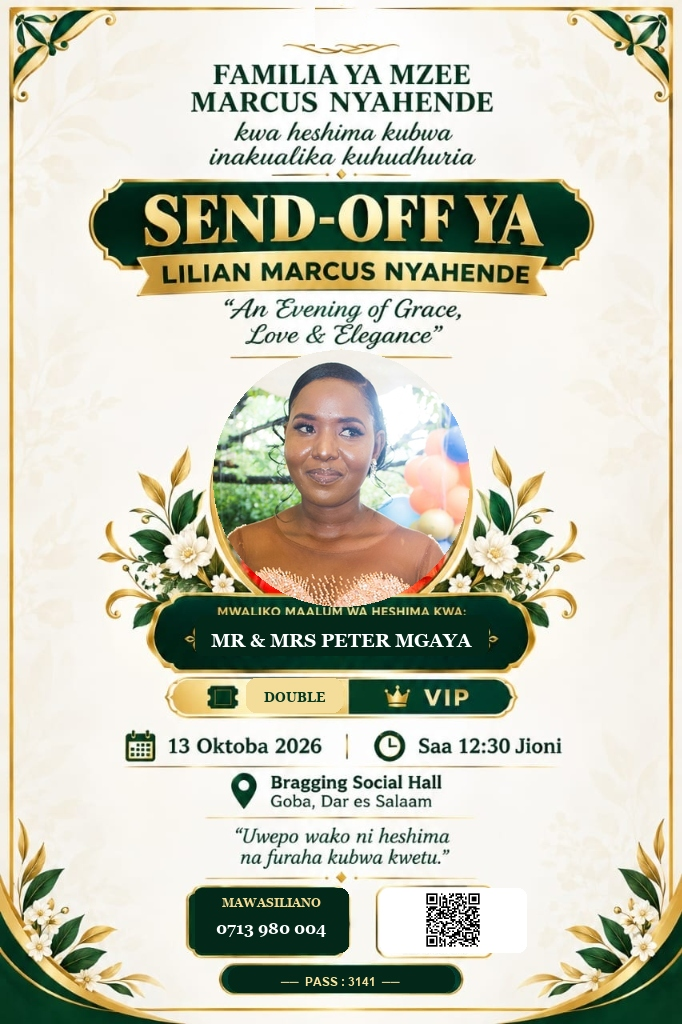
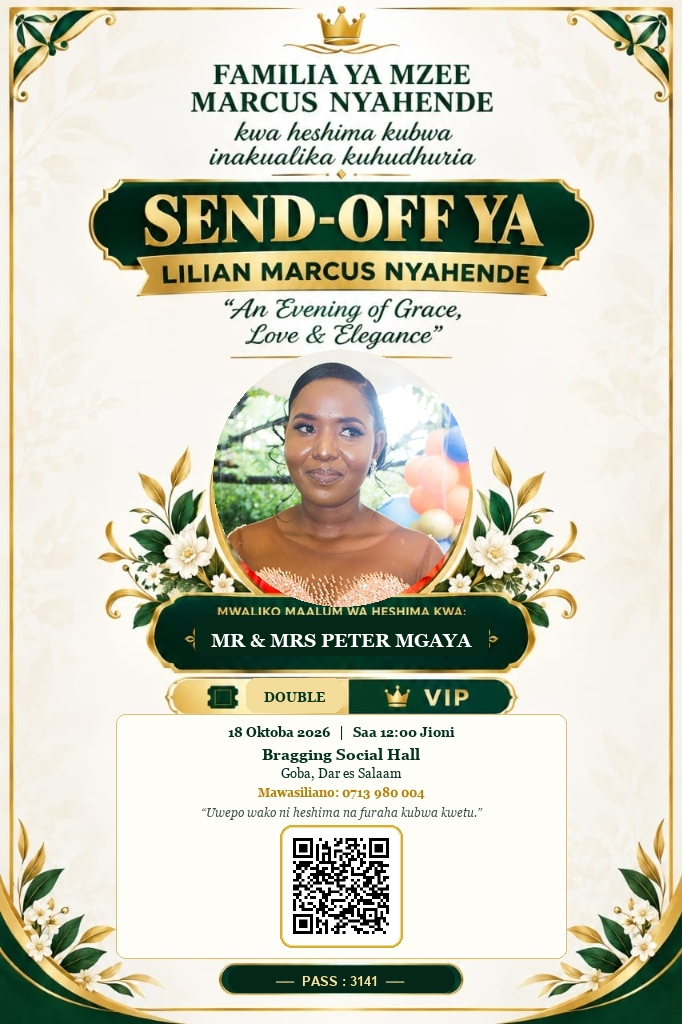
feat: implement Option A with large centered scannable QR code and clean layout

Changed region(s): [[0.1848, 0.6875, 0.8314, 0.9688], [0.4619, 0.0, 0.5543, 0.0625]]

diff --git a/services/build_master_template.py b/services/build_master_template.py
@@ -6,21 +6,47 @@ BASE_DIR = os.path.dirname(os.path.dirname(os.path.abspath(__file__)))
 ORIG_PATH = 'C:/Users/mary/.gemini/antigravity-ide/brain/da022a77-ec18-4588-8e0e-07df093a8af5/.user_uploaded/media_1790793422463.jpg'
 LILIAN_PORTRAIT = os.path.join(BASE_DIR, 'public', 'images', 'lilian_portrait_no_mic.jpg')
 TEMPLATE_OUTPUT = os.path.join(BASE_DIR, 'public', 'images', 'card_template_dynamic.png')
+FONTS_DIR = os.path.join(BASE_DIR, 'public', 'fonts')
+
+def get_font(font_filename, size):
+    local_path = os.path.join(FONTS_DIR, font_filename)
+    if os.path.exists(local_path):
+        try:
+            return ImageFont.truetype(local_path, int(size))
+        except Exception:
+            pass
+
+    win_path = os.path.join(r'C:\Windows\Fonts', font_filename)
+    if os.path.exists(win_path):
+        try:
+            return ImageFont.truetype(win_path, int(size))
+        except Exception:
+            pass
+
+    for lp in [
+        '/usr/share/fonts/truetype/dejavu/DejaVuSans-Bold.ttf',
+        '/usr/share/fonts/truetype/liberation/LiberationSerif-Bold.ttf',
+        '/usr/share/fonts/truetype/freefont/FreeSerifBold.ttf'
+    ]:
+        if os.path.exists(lp):
+            try:
+                return ImageFont.truetype(lp, int(size))
+            except Exception:
+                pass
+
+    try:
+        return ImageFont.load_default(size=int(size))
+    except TypeError:
+        return ImageFont.load_default()
 
 def build_master_template():
     if not os.path.exists(ORIG_PATH):
-        print(f"Original source image not found at {ORIG_PATH}, skipping template regeneration.")
+        print(f"Original source not found at {ORIG_PATH}")
         return
 
     orig = Image.open(ORIG_PATH).convert('RGBA')
 
-    # 1. Seamlessly erase top crown
-    crown_w = 52
-    crown_h = 42
-    left_sample = orig.crop((315 - crown_w, 6, 315, 6 + crown_h))
-    orig.paste(left_sample, (315, 6))
-
-    # 2. Put Lilian's portrait in cameo
+    # 1. Cameo: Place Lilian's portrait
     if os.path.exists(LILIAN_PORTRAIT):
         lilian = Image.open(LILIAN_PORTRAIT).convert('RGBA')
         cameo_w, cameo_h = 264, 264
@@ -32,19 +58,48 @@ def build_master_template():
 
     d = ImageDraw.Draw(orig)
 
-    # 3. Clean Name Ribbon inside: (195, 615, 488, 655)
+    # 2. Clean Name Ribbon inside: (195, 615, 488, 655)
     d.rounded_rectangle((195, 615, 488, 655), radius=8, fill=(3, 40, 26, 255))
 
-    # 4. Clean Seat Pill inside: (246, 678, 342, 712)
+    # 3. Clean Seat Pill inside: (246, 678, 342, 712)
     d.rounded_rectangle((246, 678, 342, 712), radius=10, fill=(244, 221, 154, 255))
 
-    # 5. Clean ENTIRE Left Box inner green area: (195, 888, 348, 952)
-    d.rounded_rectangle((195, 888, 348, 952), radius=8, fill=(3, 40, 26, 255))
+    # 4. Clean Event Text Area & Bottom Area with elegant subtle inset card container
+    d.rounded_rectangle((116, 714, 566, 958), radius=10, fill=(255, 253, 248, 255), outline=(222, 190, 115, 255), width=1)
 
-    # 6. Clean ENTIRE Right Box inner white area: (380, 888, 526, 952)
-    d.rounded_rectangle((380, 888, 526, 952), radius=8, fill=(255, 255, 255, 255))
+    # 5. Render Event Details with balanced, crisp typography
+    font_date = get_font('georgiab.ttf', 13.5)
+    font_venue = get_font('georgiab.ttf', 15)
+    font_city = get_font('georgia.ttf', 13)
+    font_phone = get_font('georgiab.ttf', 12.5)
+    font_quote = get_font('georgiai.ttf', 12)
 
-    # 7. Clean ENTIRE Bottom Pill inner green area: (228, 966, 454, 992)
+    v_date = "18 Oktoba 2026   |   Saa 12:00 Jioni"
+    v_venue = "Bragging Social Hall"
+    v_city = "Goba, Dar es Salaam"
+    v_phone = "Mawasiliano: 0713 980 004"
+    v_quote = "“Uwepo wako ni heshima na furaha kubwa kwetu.”"
+
+    d.text((341 - d.textlength(v_date, font=font_date)//2, 725), v_date, font=font_date, fill=(4, 50, 32, 255))
+    d.text((341 - d.textlength(v_venue, font=font_venue)//2, 746), v_venue, font=font_venue, fill=(4, 50, 32, 255))
+    d.text((341 - d.textlength(v_city, font=font_city)//2, 766), v_city, font=font_city, fill=(4, 50, 32, 255))
+    d.text((341 - d.textlength(v_phone, font=font_phone)//2, 786), v_phone, font=font_phone, fill=(180, 130, 8, 255)) # Warm Gold
+    d.text((341 - d.textlength(v_quote, font=font_quote)//2, 806), v_quote, font=font_quote, fill=(60, 80, 70, 255))
+
+    # 6. Draw Centered Luxury Gold-Bordered White Frame for Large QR Code
+    # QR box center is at (341, 886), size = 116 x 116
+    cx_qr = 341
+    cy_qr = 886
+    qw = 58
+    qh = 58
+    # Outer gold shadow / accent
+    d.rounded_rectangle((cx_qr - qw - 3, cy_qr - qh - 3, cx_qr + qw + 3, cy_qr + qh + 3), radius=12, fill=(212, 175, 55, 255))
+    # Inner gold border
+    d.rounded_rectangle((cx_qr - qw - 1, cy_qr - qh - 1, cx_qr + qw + 1, cy_qr + qh + 1), radius=10, fill=(245, 218, 145, 255))
+    # Pure white interior
+    d.rounded_rectangle((cx_qr - qw, cy_qr - qh, cx_qr + qw, cy_qr + qh), radius=9, fill=(255, 255, 255, 255))
+
+    # 7. Clean Bottom Pill for PASS code: (228, 966, 454, 992)
     d.rounded_rectangle((228, 966, 454, 992), radius=12, fill=(3, 40, 26, 255))
 
     orig.save(TEMPLATE_OUTPUT, 'PNG')

diff --git a/services/generate_card.py b/services/generate_card.py
@@ -113,44 +113,27 @@ def render_guest_card(guest_id_or_code, output_path=None):
     sh = bb_s[3] - bb_s[1]
     d.text((295 - sw // 2, 695 - sh // 2), seat_txt, font=font_seat, fill=(5, 55, 35, 255))
 
-    # 3. Left Box: MAWASILIANO & 0713 980 004
-    cx_left = (195 + 348) // 2
-    font_contact_lbl = get_font('georgiab.ttf', 12)
-    font_contact_num = get_font('georgiab.ttf', 16)
-
-    lbl_contact = "MAWASILIANO"
-    num_contact = "0713 980 004"
-
-    bb_cl = d.textbbox((0, 0), lbl_contact, font=font_contact_lbl)
-    d.text((cx_left - (bb_cl[2]-bb_cl[0]) // 2, 896), lbl_contact, font=font_contact_lbl, fill=(245, 218, 145, 255))
-
-    bb_cn = d.textbbox((0, 0), num_contact, font=font_contact_num)
-    d.text((cx_left - (bb_cn[2]-bb_cn[0]) // 2, 919), num_contact, font=font_contact_num, fill=(255, 255, 255, 255))
-
-    # 4. Right Box: High-Resolution, Instant-Scan QR Code
-    # Standard URL payload that opens link on phones & verifies on security scanner
+    # 3. High-Resolution, Instant-Scan Large Centered QR Code
     qr_payload = f"https://lilian.nyisu.com/invite/{gid}?code={code}"
 
     qr = qrcode.QRCode(
         version=None,
         error_correction=qrcode.constants.ERROR_CORRECT_M,
         box_size=4,
-        border=2, # Essential Quiet Zone for optical scanner detection
+        border=2, # Essential Quiet Zone for instant optical scanner detection
     )
     qr.add_data(qr_payload)
     qr.make(fit=True)
     qr_img = qr.make_image(fill_color='black', back_color='white').convert('RGBA')
 
-    # Resize cleanly to 60x60
-    qr_resized = qr_img.resize((60, 60), Image.Resampling.BOX)
+    # Large 108x108 QR Code centered in the 116x116 luxury gold frame (cx=341, cy=886)
+    qr_size = 108
+    qr_resized = qr_img.resize((qr_size, qr_size), Image.Resampling.BOX)
+    card.paste(qr_resized, (cx - qr_size // 2, 886 - qr_size // 2))
 
-    cx_right = (380 + 526) // 2
-    cy_right = (888 + 952) // 2
-    card.paste(qr_resized, (cx_right - 30, cy_right - 30))
-
-    # 5. Bottom PASS Pill: ── PASS : {code} ──
+    # 4. Bottom PASS Pill: ── PASS : {code} ──
     pass_txt = f'──  PASS : {code}  ──'
-    font_pass = get_font('arialbd.ttf', 12.5)
+    font_pass = get_font('arialbd.ttf', 13)
     bb_p = d.textbbox((0, 0), pass_txt, font=font_pass)
     pw = bb_p[2] - bb_p[0]
     ph = bb_p[3] - bb_p[1]
